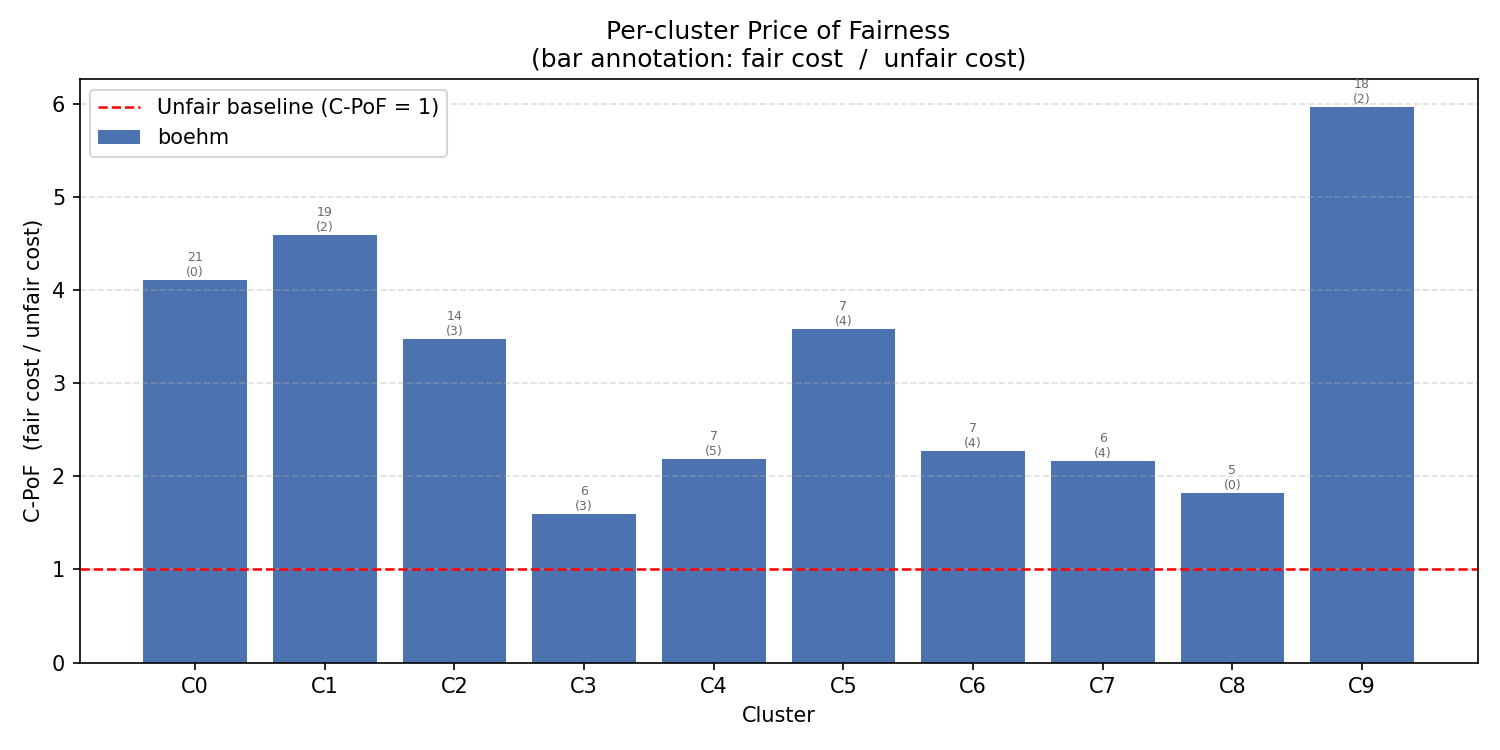
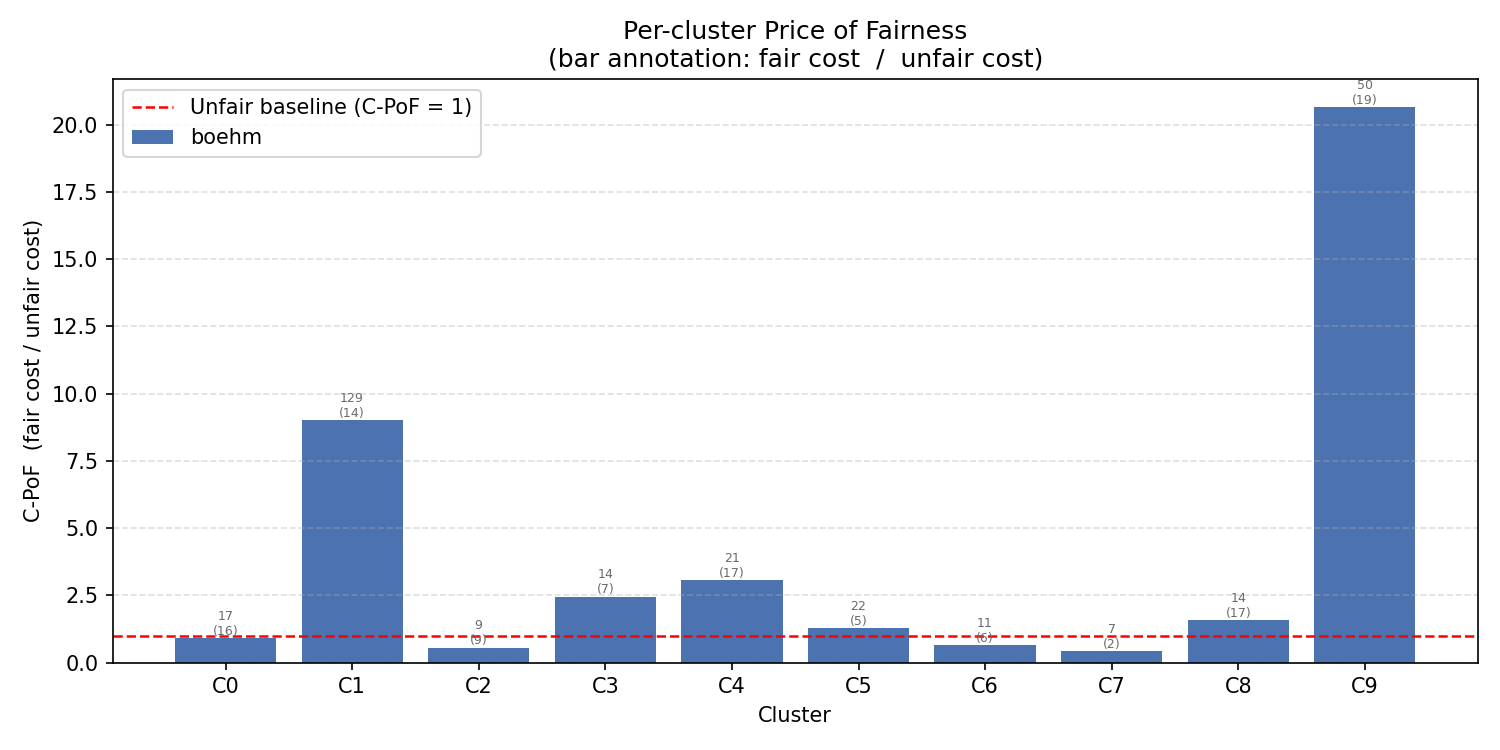
new boehm clustering

diff --git a/algorithms/main_boehm_fair_clustering.py b/algorithms/main_boehm_fair_clustering.py
@@ -26,16 +26,26 @@ def encode_groups_to_int(group_series: pd.Series) -> tuple[np.ndarray, list]:
 def balance_dataset_for_boehm(df: pd.DataFrame, group_col: str, random_seed) -> tuple[pd.DataFrame, int]:
     group_counts = df[group_col].value_counts()
     print(group_counts)
-    size_for_all_groups = group_counts.min()
+    size_for_all_groups = group_counts.max()
     rng = np.random.default_rng(random_seed)
     dfs = []
     for group in group_counts.index:
         df_for_group = df[df[group_col] == group].copy()
+        df_for_group['_orig_idx'] = df_for_group.index
         original_size = len(df_for_group)
-        if original_size > size_for_all_groups:
-            idx = rng.choice(df_for_group.index, size=size_for_all_groups, replace=False)
-            df_for_group = df_for_group.loc[idx].copy()
-        df_for_group['_boehm_weight'] = original_size / size_for_all_groups
+
+        if original_size < size_for_all_groups:
+            base_reps = size_for_all_groups // original_size
+            remainder = size_for_all_groups - base_reps * original_size
+            repeated = pd.concat([df_for_group] * base_reps, ignore_index=False)
+            if remainder > 0:
+                extra_positions = rng.choice(original_size, size=remainder, replace=False)
+                extra = df_for_group.iloc[extra_positions]
+                df_for_group = pd.concat([repeated, extra], ignore_index=False)
+            else:
+                df_for_group = repeated
+
+        df_for_group['_boehm_weight'] = 1.0
         dfs.append(df_for_group)
     balanced_df = pd.concat(dfs).sample(frac=1, random_state=random_seed).reset_index(drop=True)
     print(f"Sampled to size {size_for_all_groups} per group (weighted): \n")
@@ -151,12 +161,15 @@ def fair_clustering(
 
     x = df_balanced[feature_cols].to_numpy(dtype=np.float64)
     timing["Balance Dataset"] = time.perf_counter() - t0
-
+    x_orig = df[feature_cols].to_numpy(dtype=np.float64)
+    w_orig = (df['Weight'].to_numpy(dtype=np.float64)
+              if 'Weight' in df.columns
+              else np.ones(len(df), dtype=np.float64))
     t0 = time.perf_counter()
     unfair_center, unfair_label, unfair_cost = kmedian(
-        x=x,
+        x=x_orig,
         k=k,
-        _weights=weights,
+        _weights=w_orig,
         n_trials=kmedian_trials,
         max_iter=kmedian_max_iter,
         random_seed=random_seed
@@ -164,30 +177,40 @@ def fair_clustering(
     timing["Vanilla k-Median"] = time.perf_counter() - t0
 
     group_codes, group_names = encode_groups_to_int(df_balanced[protected_group_col])
-
+    group_codes_orig, _ = encode_groups_to_int(df[protected_group_col])
     t0 = time.perf_counter()
     fair_centers, fair_labels, fair_cost = boehm_fair_clustering(x, group_codes,
                                                                  k_centers=k,
                                                                  n_trials=kmedian_trials,
                                                                  weights=weights,
                                                                  max_iter=kmedian_max_iter)
+    # Majority-vote each original row's label across its replicated copies
+    labels_series = pd.Series(fair_labels, index=df_balanced['_orig_idx'].to_numpy())
+    fair_labels_orig = (labels_series
+                        .groupby(level=0)
+                        .agg(lambda s: s.value_counts().idxmax())
+                        .reindex(df.index)
+                        .to_numpy(dtype=np.int32))
+    # Fair cost on the original dataset (apples-to-apples with Bera/Backurs/Bercea)
+    D_orig = pairwise_l1(x_orig, fair_centers)
+    fair_cost_orig = float((w_orig * D_orig[np.arange(len(df)), fair_labels_orig]).sum())
     timing["Böhm Fair Clustering"] = time.perf_counter() - t0
 
     evaluate_fairness(fair_labels, group_codes, group_names, k)
     timing["Total Time"] = time.perf_counter() - t_start
     return (fair_centers,
-            fair_labels,
-            fair_cost,
+            fair_labels_orig,
+            fair_cost_orig,
             timing,
             unfair_center,
             unfair_label,
             unfair_cost,
             size_pruned_to,
-            x,
-            group_codes,
+            x_orig,
+            group_codes_orig,
             group_names,
             df_balanced,
-            weights
+            w_orig
             )
 
 
@@ -195,10 +218,10 @@ if __name__ == "__main__":
     df = csv_loader.load_csv_chunked(
         "../us_census_puma_data.csv",
         csv_loader.LOAD_COLS,
-        max_rows=100_000,
+        max_rows=2_000,
     )
 
-    df_processed = csv_loader.preprocess_dataset(df)
+    df_processed = csv_loader.preprocess_dataset(df, ['RACE_6'])
 
     FEATURE_COLS = ["Lat_Scaled", "Lon_Scaled"]
     PROTECTED_COL = "GROUP_ID"
@@ -244,7 +267,7 @@ if __name__ == "__main__":
     audit_fairness_exact_balance(fair_result)
 
     plot_execution_times(fair_result, timing, title="Essential k-Median — Run Time")
-    plot_spatial_clusters(df_balanced, fair_result, unfair_result, feature_cols=FEATURE_COLS)
+    plot_spatial_clusters(df_processed, fair_result, unfair_result, feature_cols=FEATURE_COLS)
     plot_cluster_pof(fair_result, [summary])
     plot_pof_comparison(fair_result, [summary])
     plot_group_pof(fair_result, [summary])

diff --git a/evaluations/evaluation4.py b/evaluations/evaluation4.py
@@ -11,7 +11,7 @@ ALPHAS = [0.01, 0.02, 0.05, 0.1, 0.2]
 
 FEATURE_CONFIGS = [
     {"name": "RACE_6", "group_id_features": ["RACE_6"], "L": 6, "DI": 0.343},
-    {"name": "INC_BIN", "group_id_features": ["INC_BIN"], "L": 4, "DI": 0.094},
+    #{"name": "INC_BIN", "group_id_features": ["INC_BIN"], "L": 4, "DI": 0.094},
 ]
 
 _ALG_COLORS = {"Bera": "#4C72B0", "Bercea": "#DD8452"}
